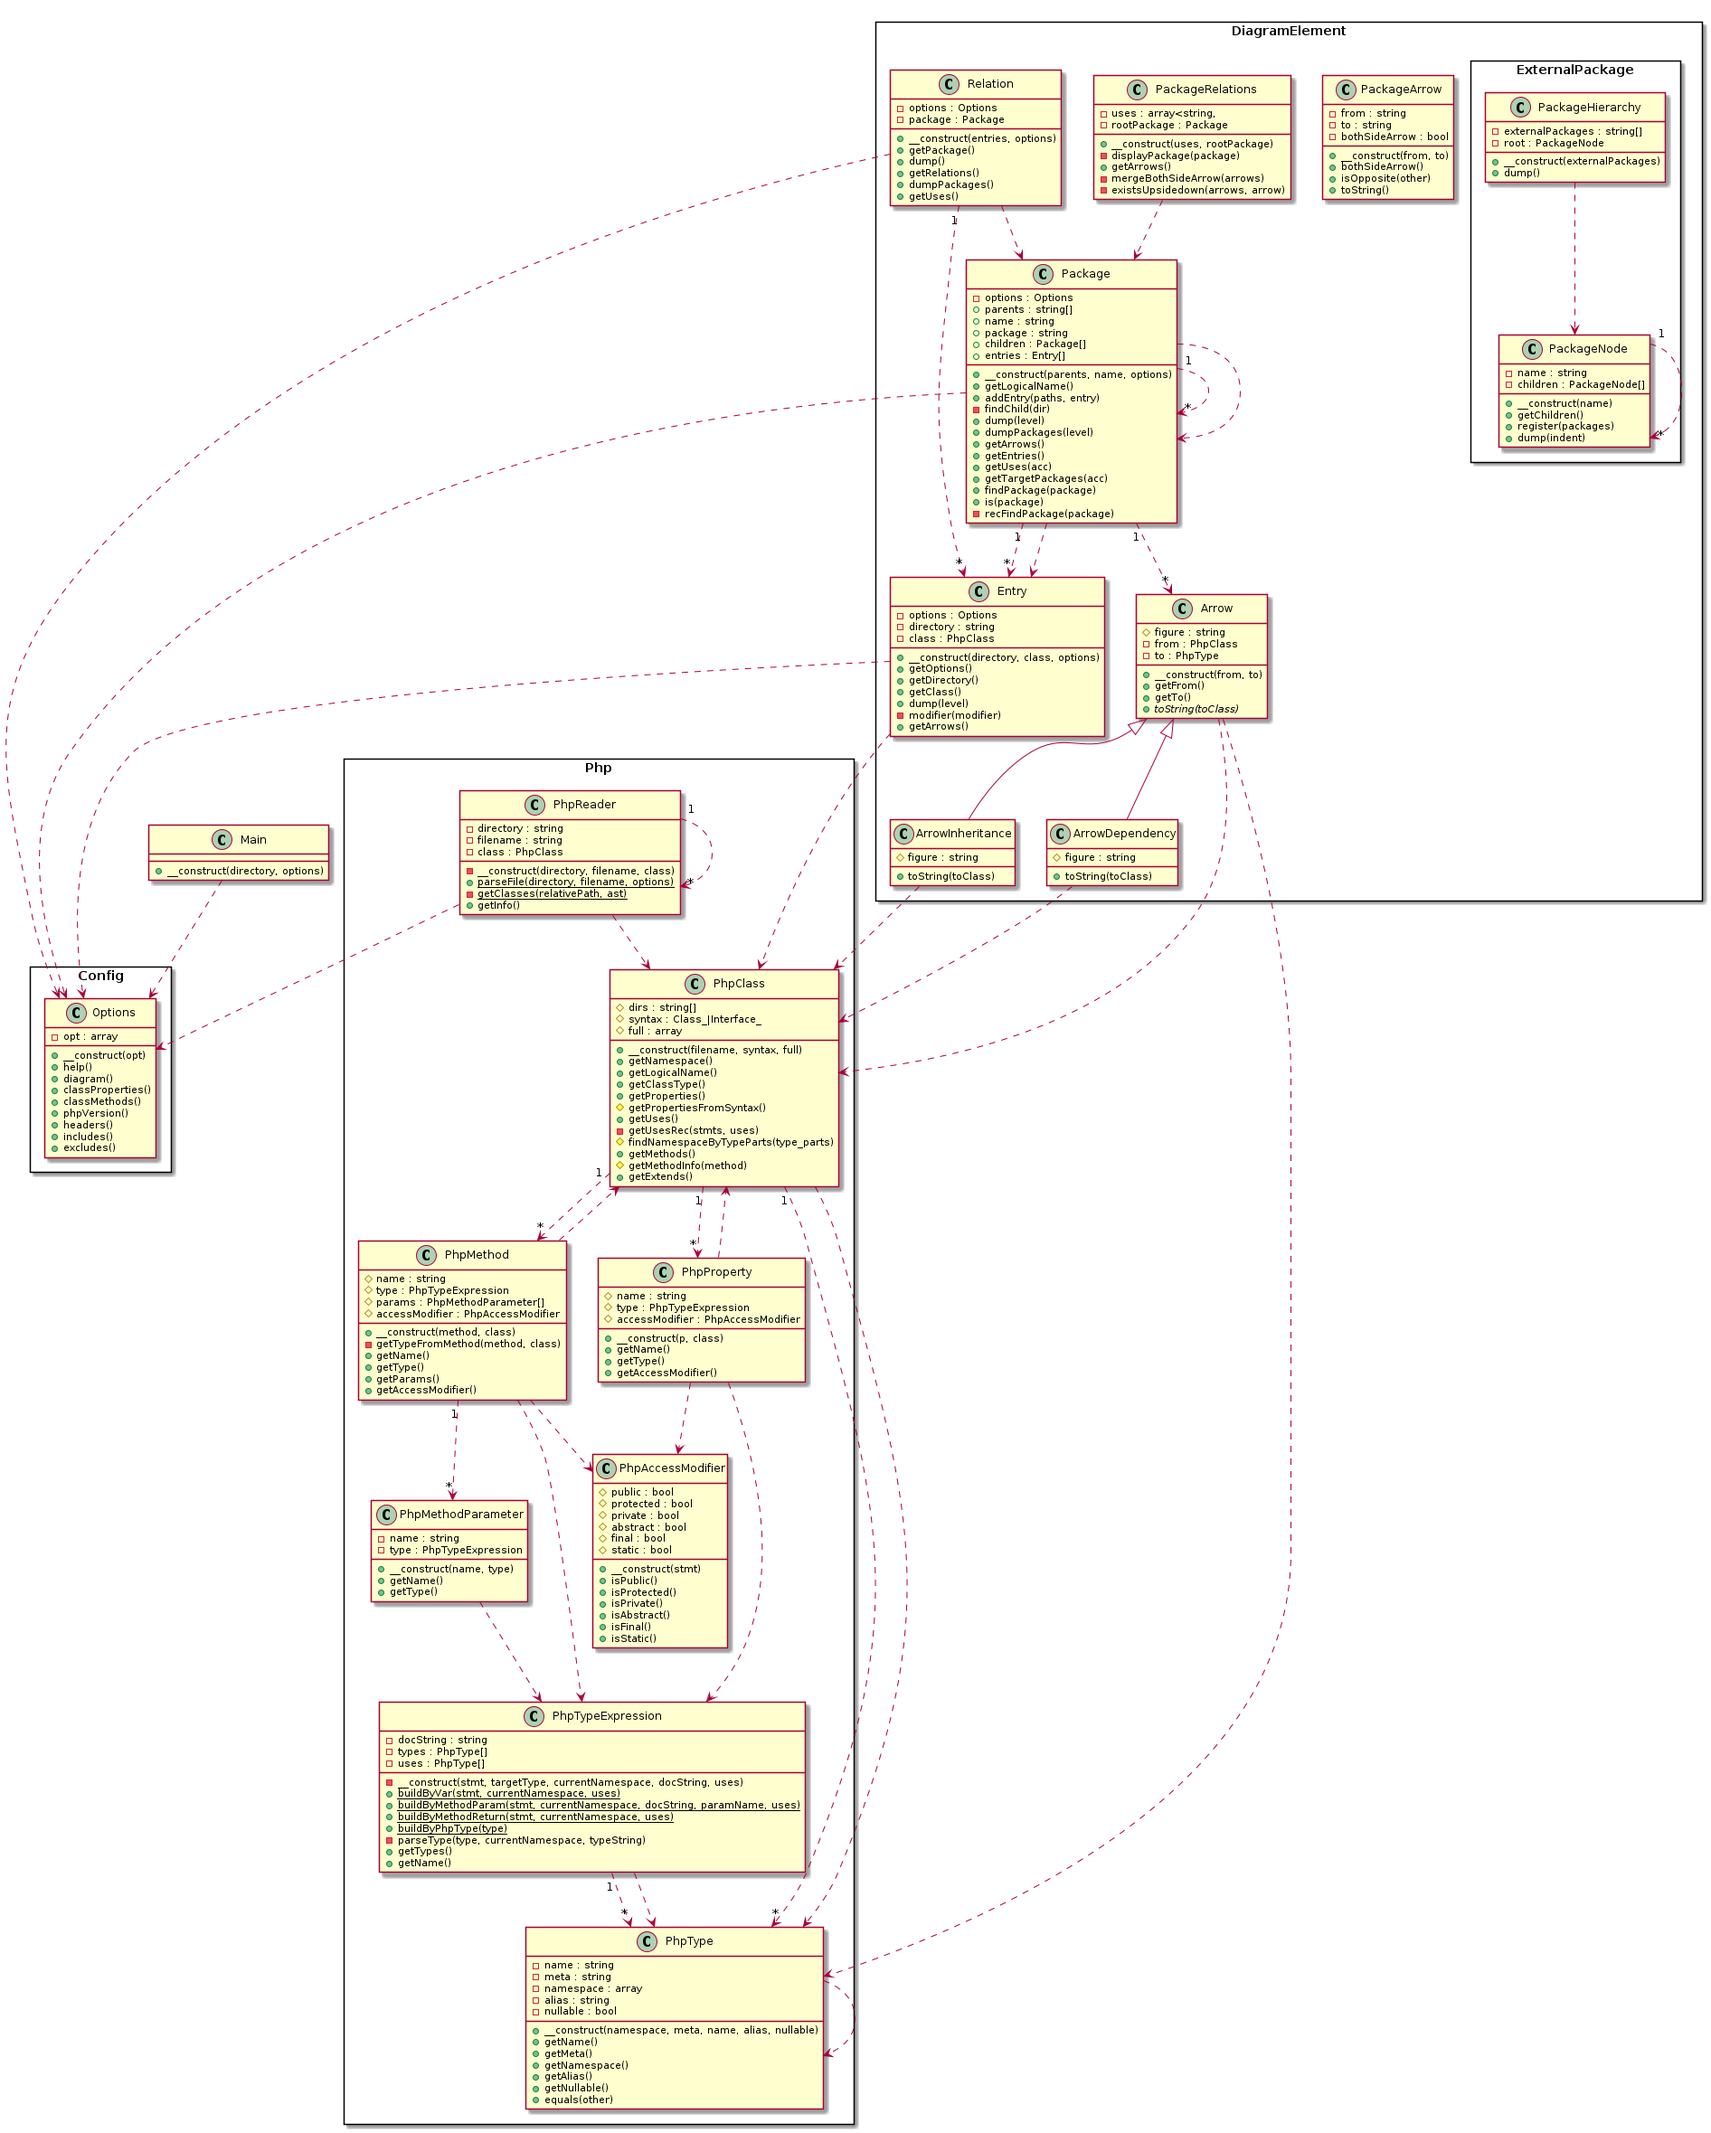
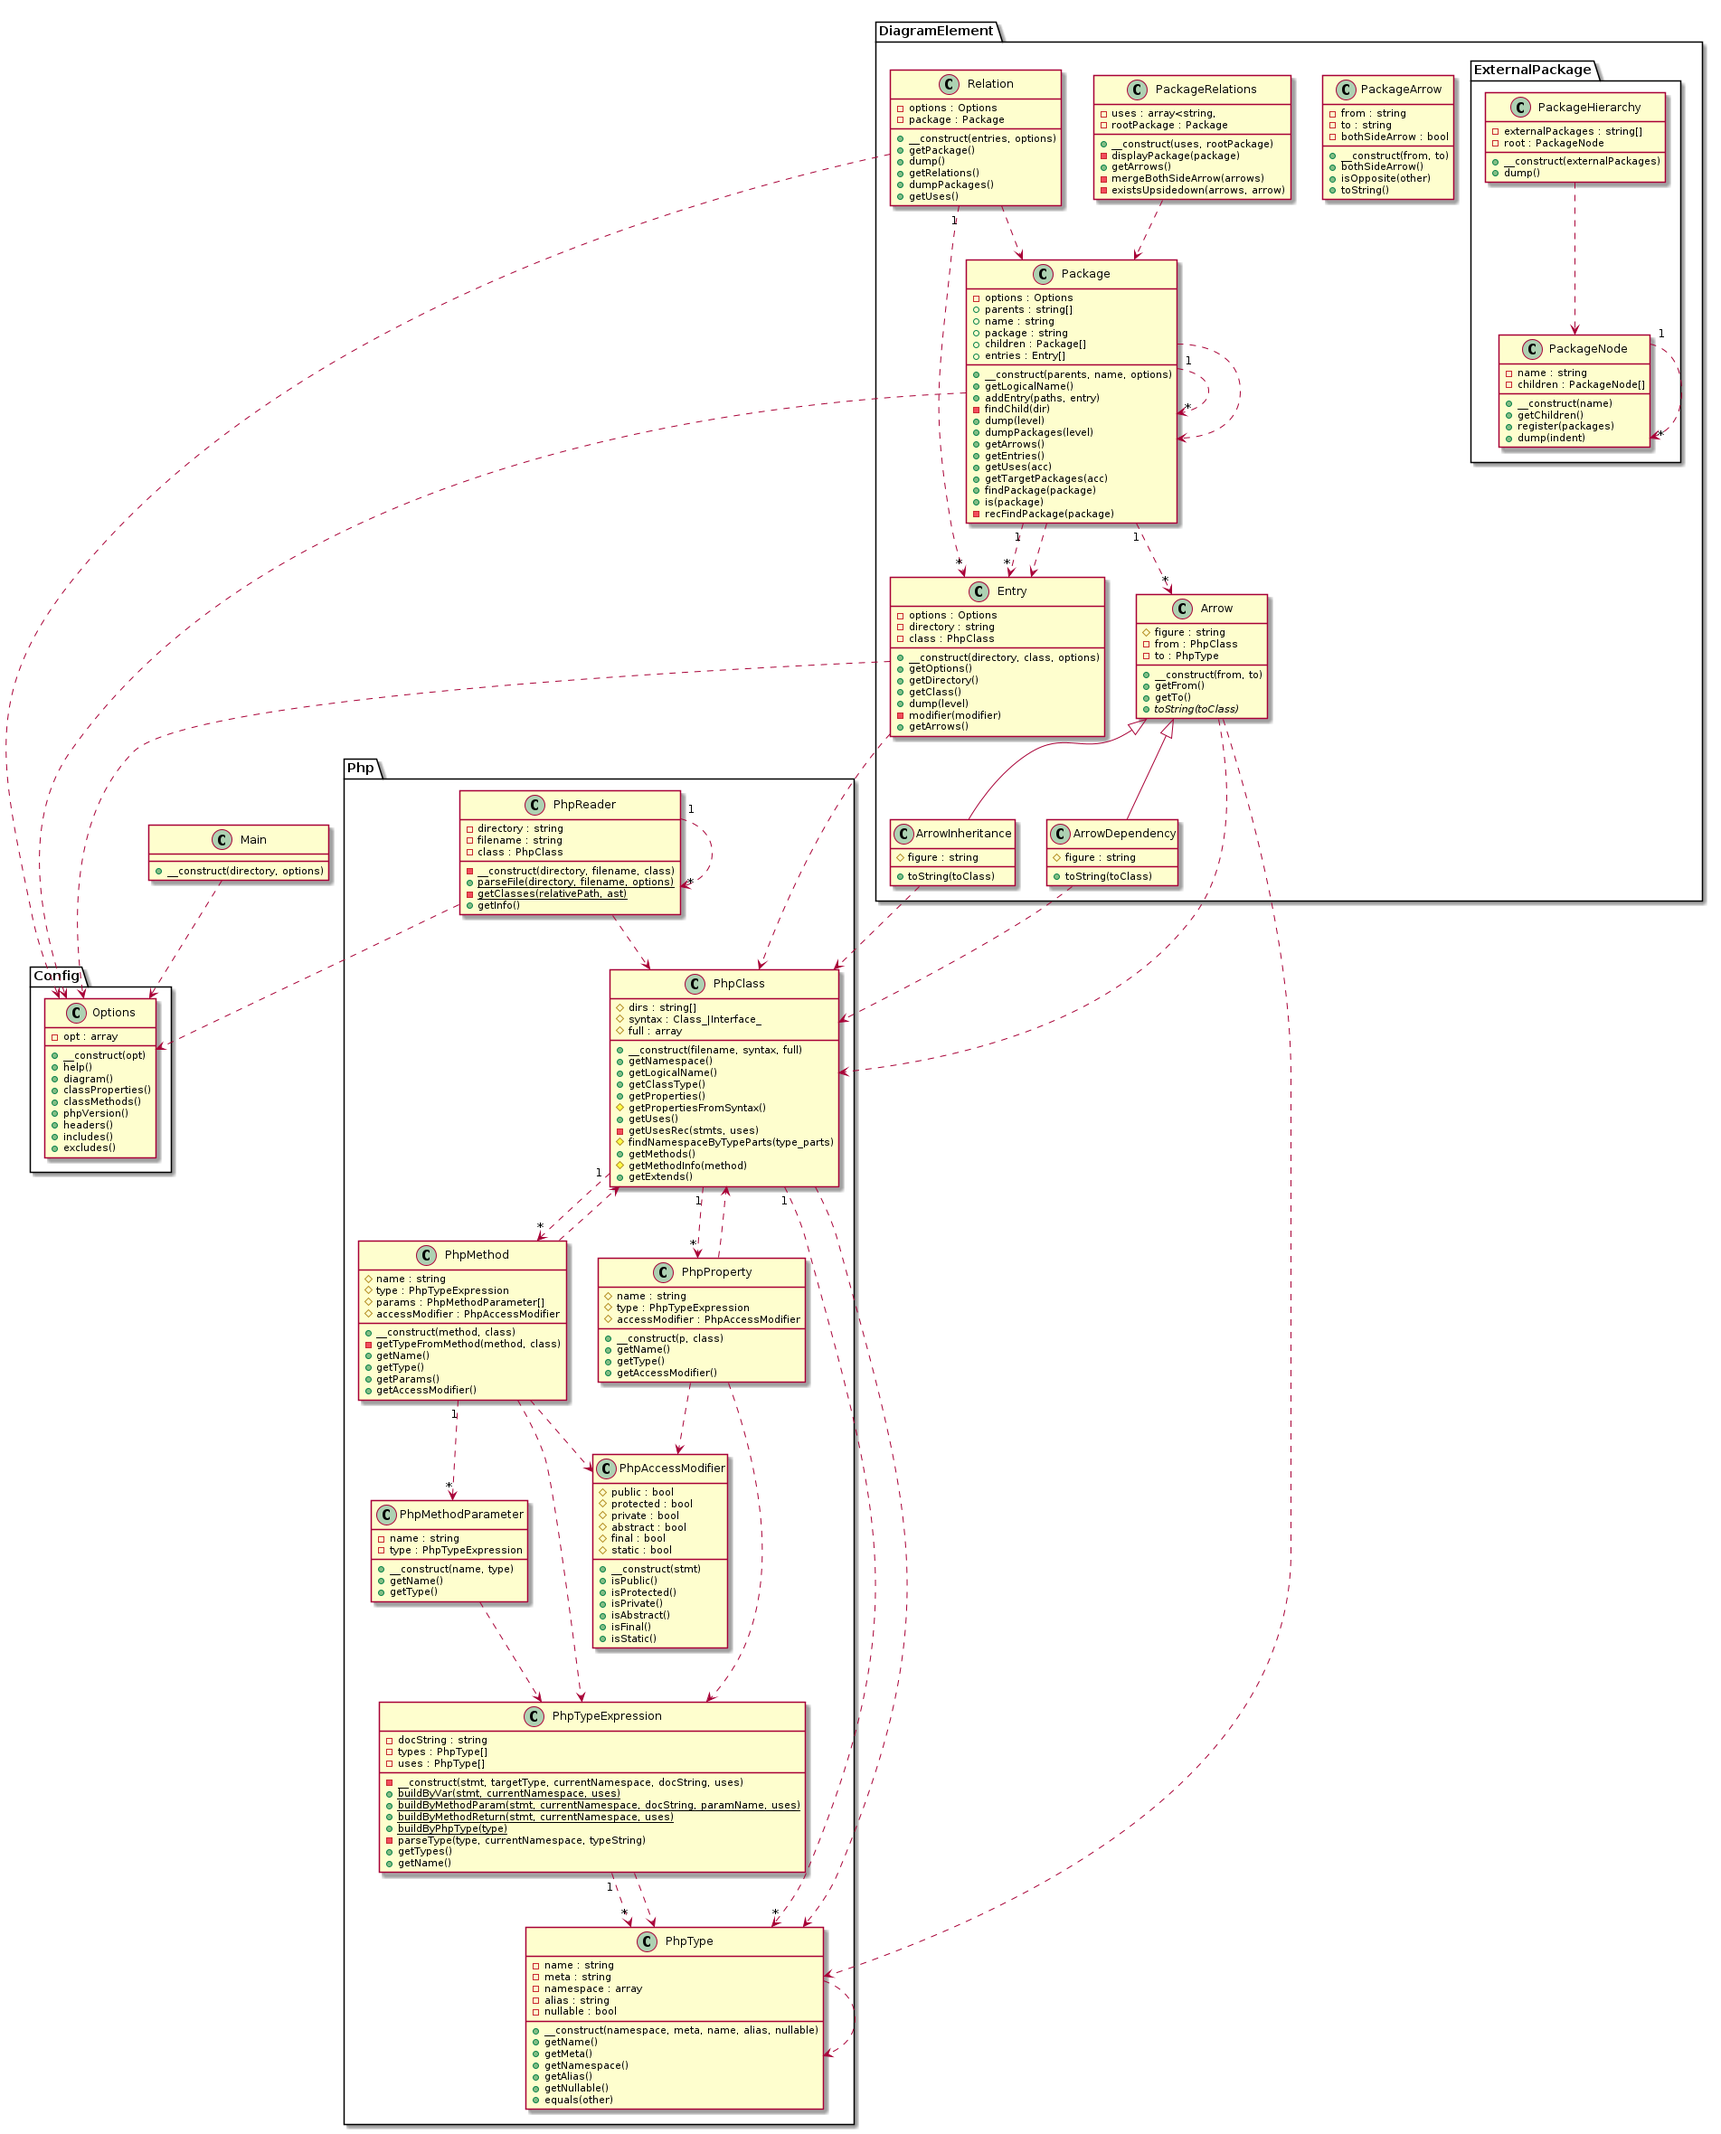
Changed package notation in class diagram from square to default notation.

Changed region(s): [[0.1871, 0.0, 0.9979, 1.0], [0.0, 0.4332, 0.1247, 0.557], [0.0936, 0.3404, 0.2495, 0.4332]]

diff --git a/test/PackageTest.php b/test/PackageTest.php
@@ -308,7 +308,7 @@ EOJ;
 
         $expected =<<<EOS
 @startuml class-diagram
-  package product as product <<Rectangle>> {
+  package product as product {
     class product.Product
     class product.Price
     class product.Name
@@ -333,10 +333,10 @@ EOS;
         $rel = new Relation($entries, $options);
         $expected =<<<EOS
 @startuml class-diagram
-  package product as product <<Rectangle>> {
+  package product as product {
     class product.Product
     class product.Price
-    package utility as product.utility <<Rectangle>> {
+    package utility as product.utility {
       class product.Name
     }
   }
@@ -359,7 +359,7 @@ EOS;
         $rel = new Relation($entries, $options);
         $expected =<<<EOS
 @startuml class-diagram
-  package product as product <<Rectangle>> {
+  package product as product {
     interface product.Interface_
   }
 @enduml
@@ -378,7 +378,7 @@ EOS;
         $rel = new Relation($entries, $options);
         $expected =<<<EOS
 @startuml class-diagram
-  package product as product <<Rectangle>> {
+  package product as product {
     interface product.Interface_ {
       -name : string
     }
@@ -398,7 +398,7 @@ EOS;
         $rel = new Relation($entries, $options);
         $expected =<<<EOS
 @startuml class-diagram
-  package product as product <<Rectangle>> {
+  package product as product {
     interface product.Interface_ {
       -method1(param1)
     }
@@ -419,7 +419,7 @@ EOS;
         $rel = new Relation($entries, $options);
         $expected =<<<EOS
 @startuml class-diagram
-  package product as product <<Rectangle>> {
+  package product as product {
     interface product.Interface_ {
       -method1(param1)
     }
@@ -446,7 +446,7 @@ EOS;
 
         $expected =<<<EOS
 @startuml class-diagram
-  package product as product <<Rectangle>> {
+  package product as product {
     class product.Product
     class product.Price
     class product.Name

diff --git a/src/DiagramElement/Package.php b/src/DiagramElement/Package.php
@@ -65,7 +65,7 @@ class Package {
         $lines = [];
         if ($this->name !== 'ROOT') {
             $lines[] = sprintf(
-                '%spackage %s as %s <<Rectangle>> {',
+                '%spackage %s as %s {',
                 $indent,
                 $this->name,
                 $this->getLogicalName()

diff --git a/README.md b/README.md
@@ -123,7 +123,7 @@ To execute `php-class-diagram` will print PlantUML script.
 ```bash
 $ vendor/bin/php-class-diagram test/fixtures/no-namespace
 @startuml class-diagram
-  package product as product <<Rectangle>> {
+  package product as product {
     class product.Price {
       -price : int
     }
